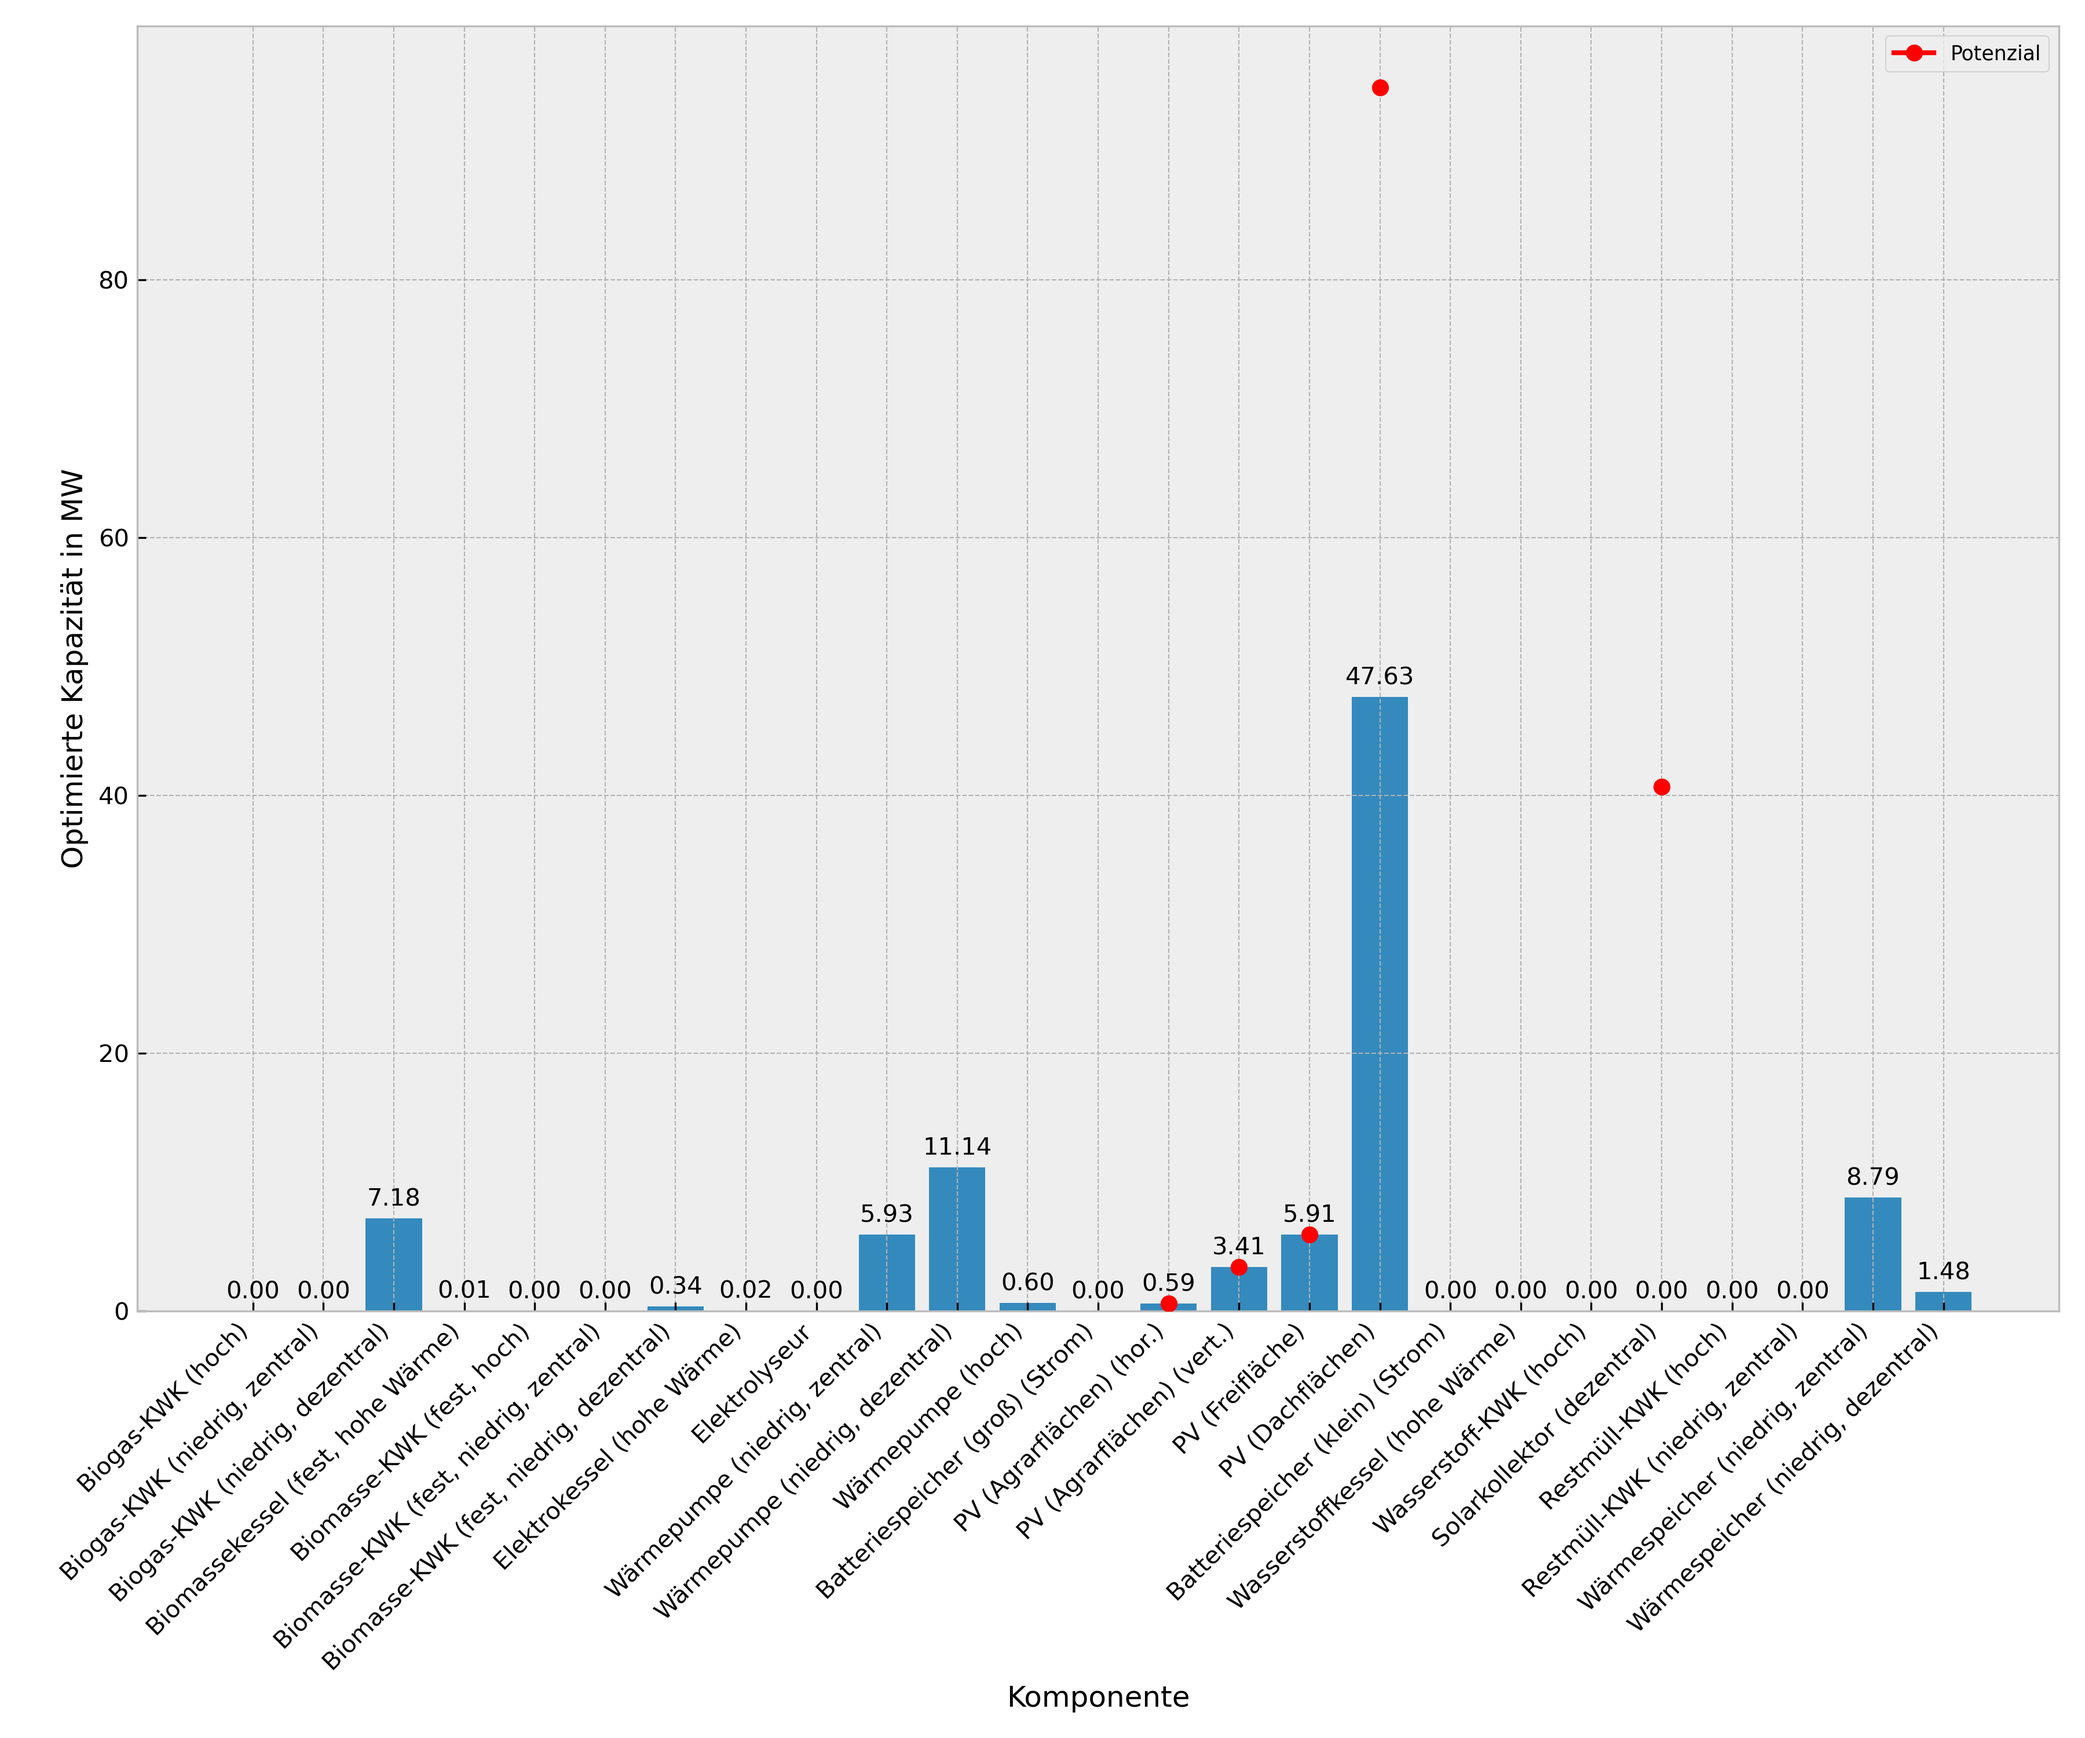
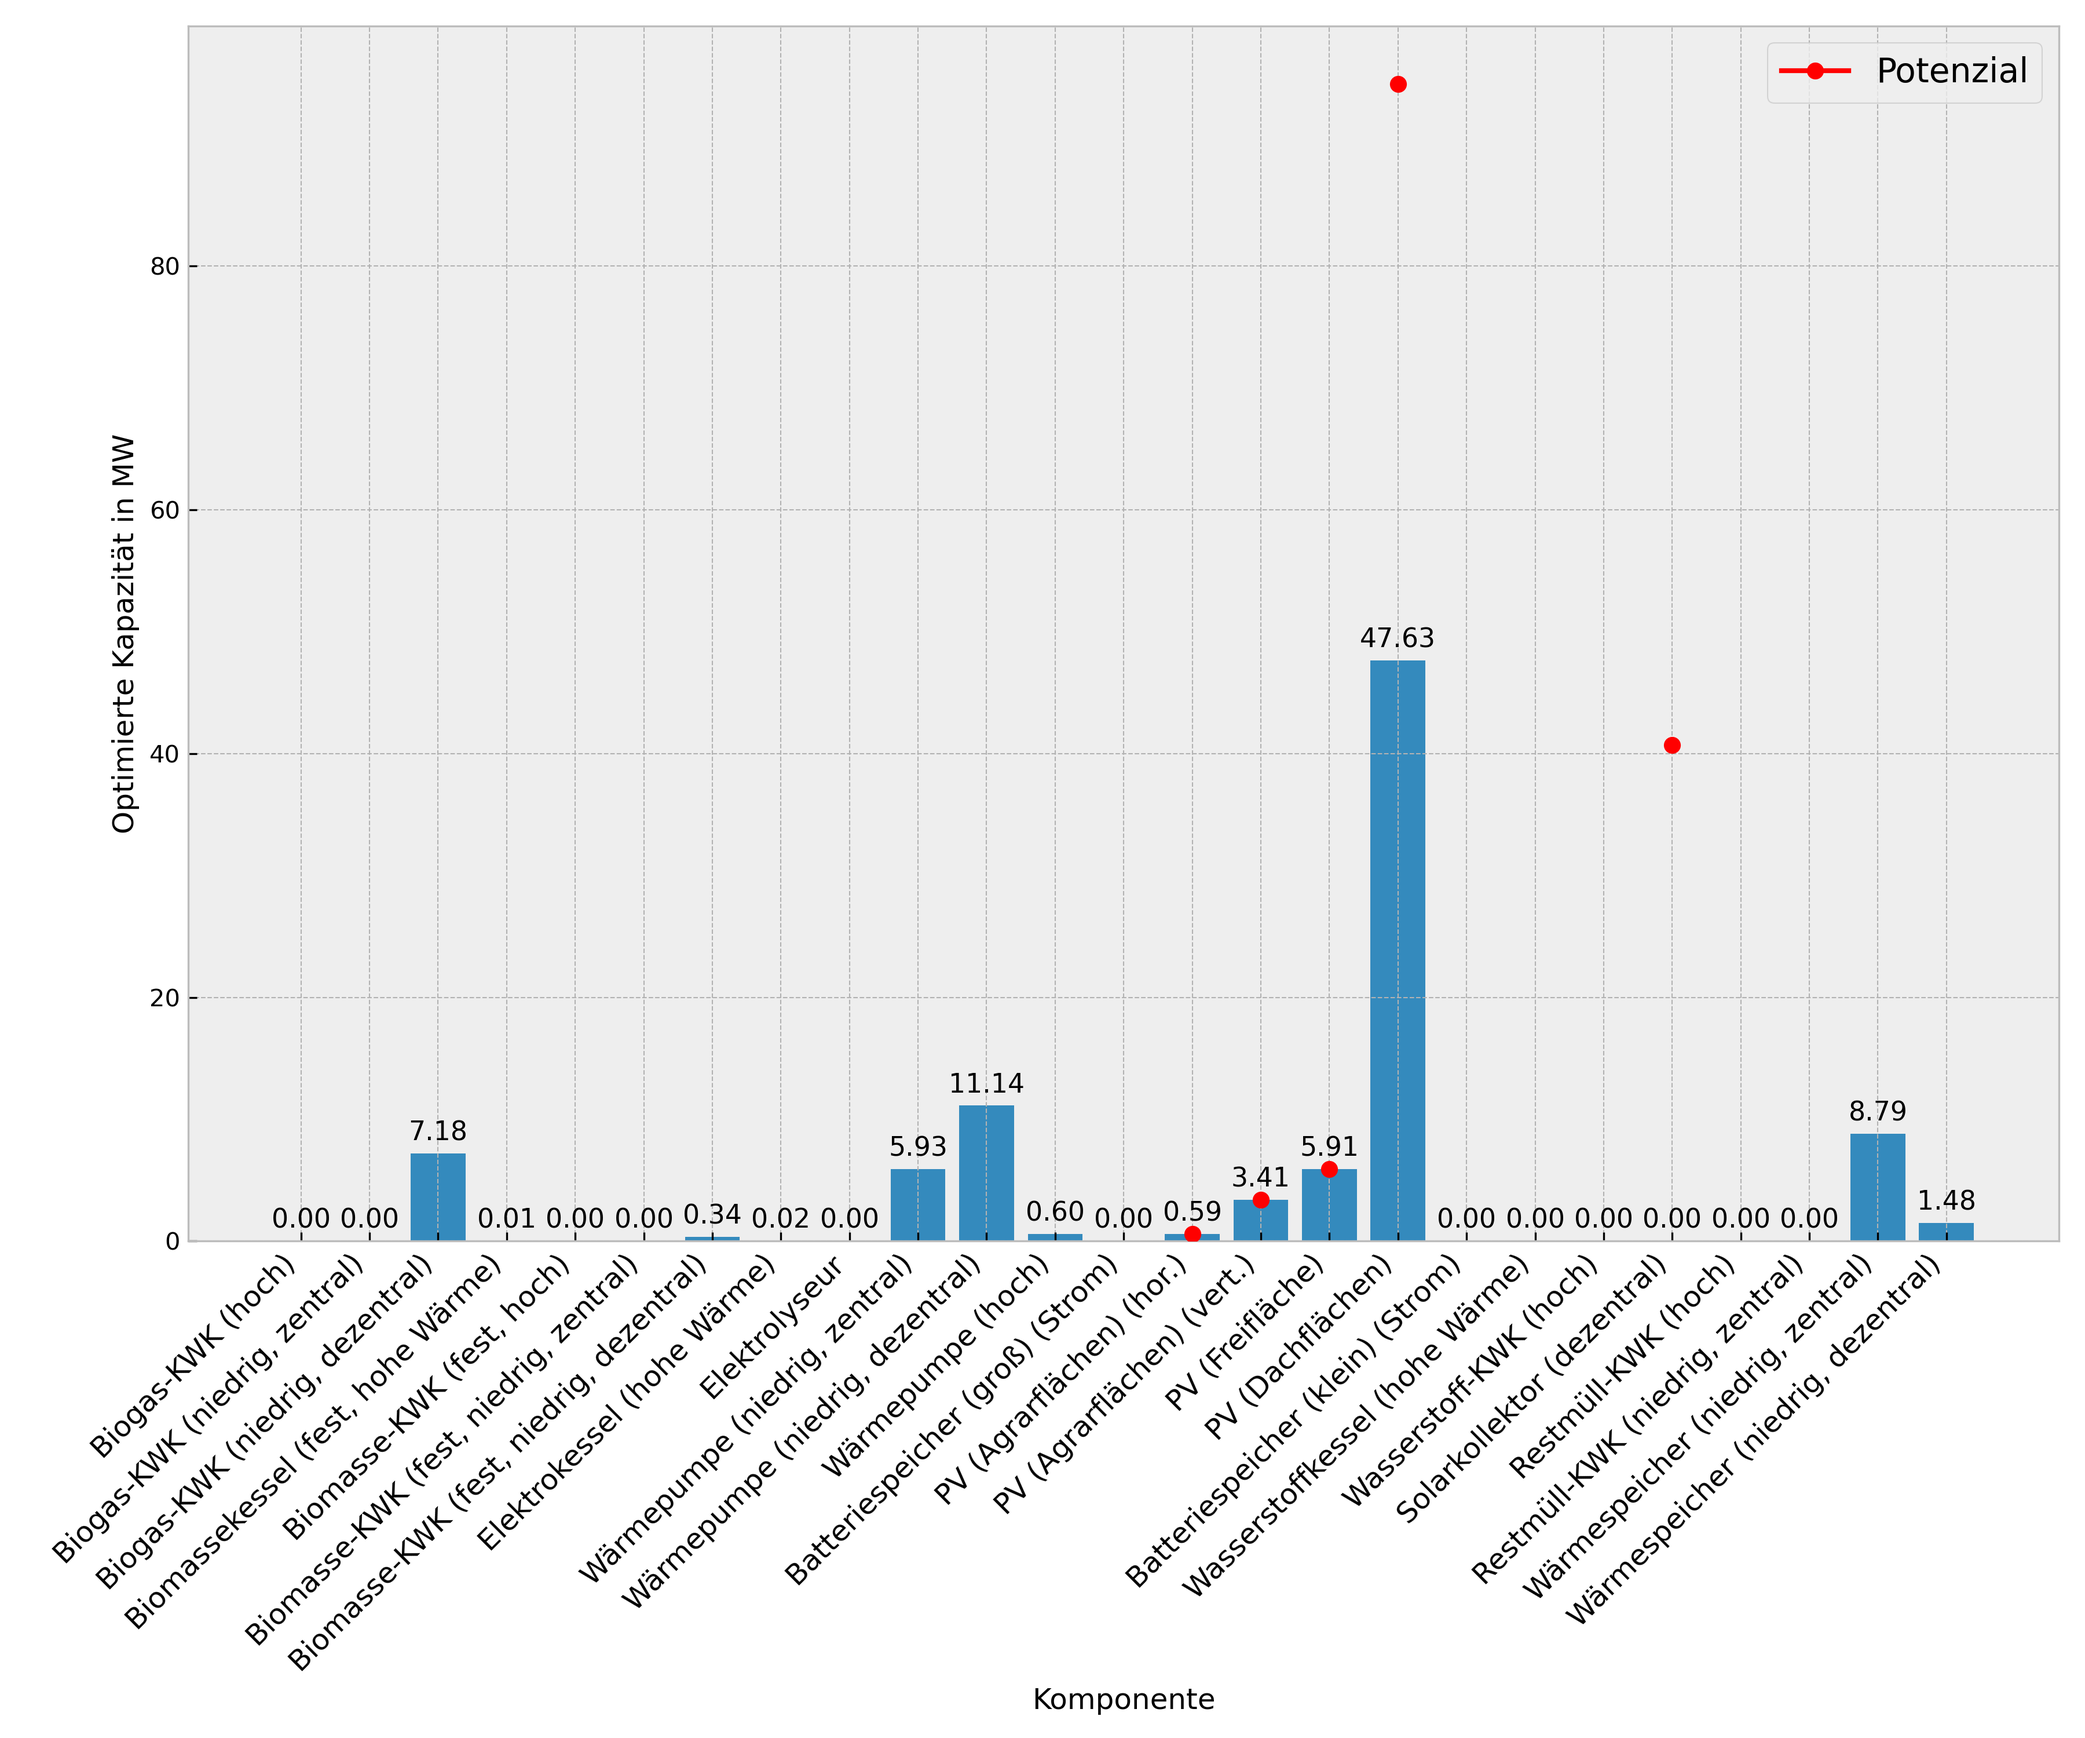
Adjust fontsizes in capacity plots

diff --git a/plots.py b/plots.py
@@ -60,7 +60,7 @@ def barplot_c(df,
             textcoords="offset points",
             ha="center",
             va="bottom",
-            fontsize=10,
+            fontsize=11,
         )
 
     # Draw potential markers, if provided
@@ -84,9 +84,9 @@ def barplot_c(df,
                     potentials_set = True
 
     if potentials_set:
-        ax.legend(["Potenzial"], loc="upper right", fontsize="small")
+        ax.legend(["Potenzial"], loc="upper right", fontsize=14)
 
-    plt.xticks(rotation=45, ha="right", fontsize=10)
+    plt.xticks(rotation=45, ha="right", fontsize=12)
     plt.tight_layout()
 
     if filename:
